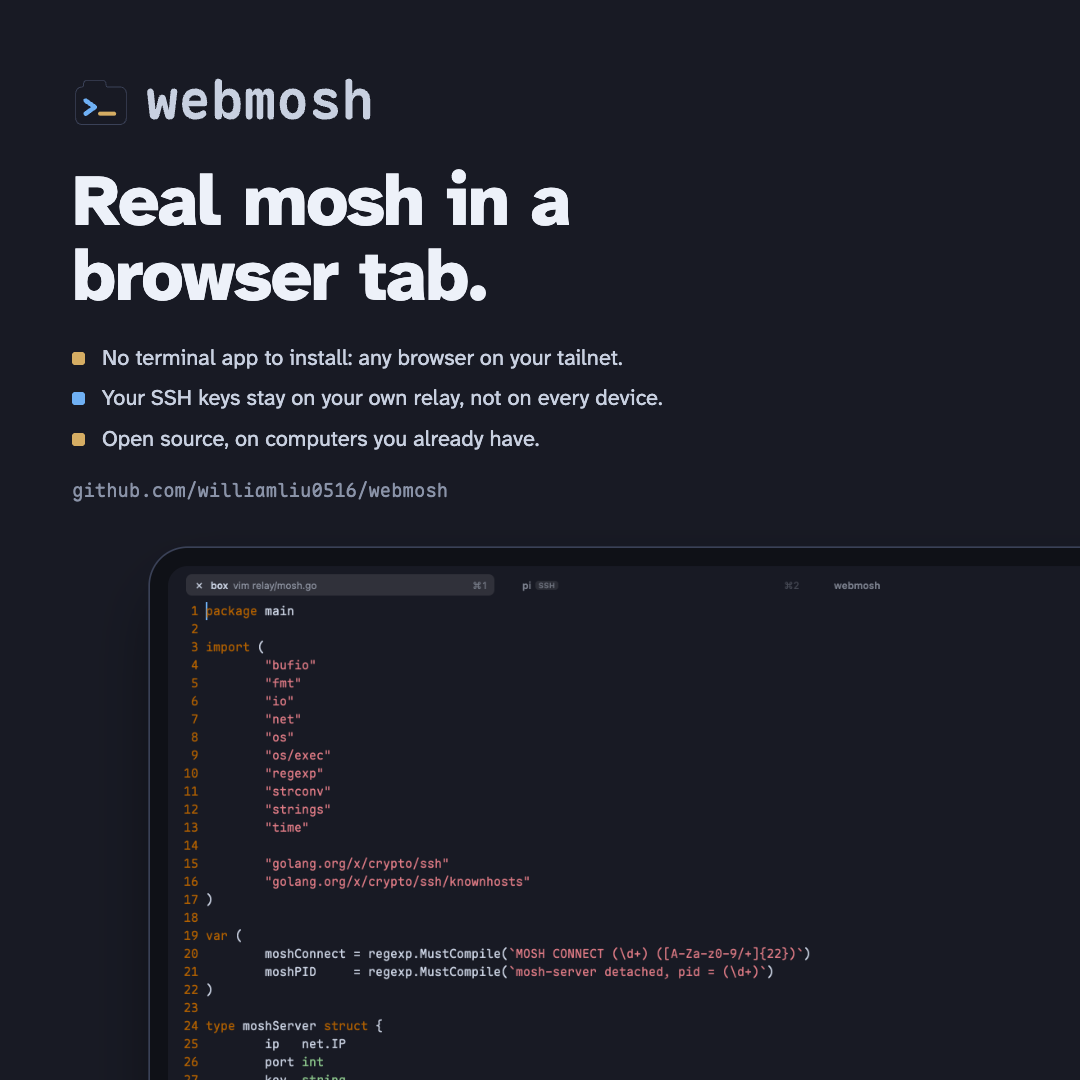
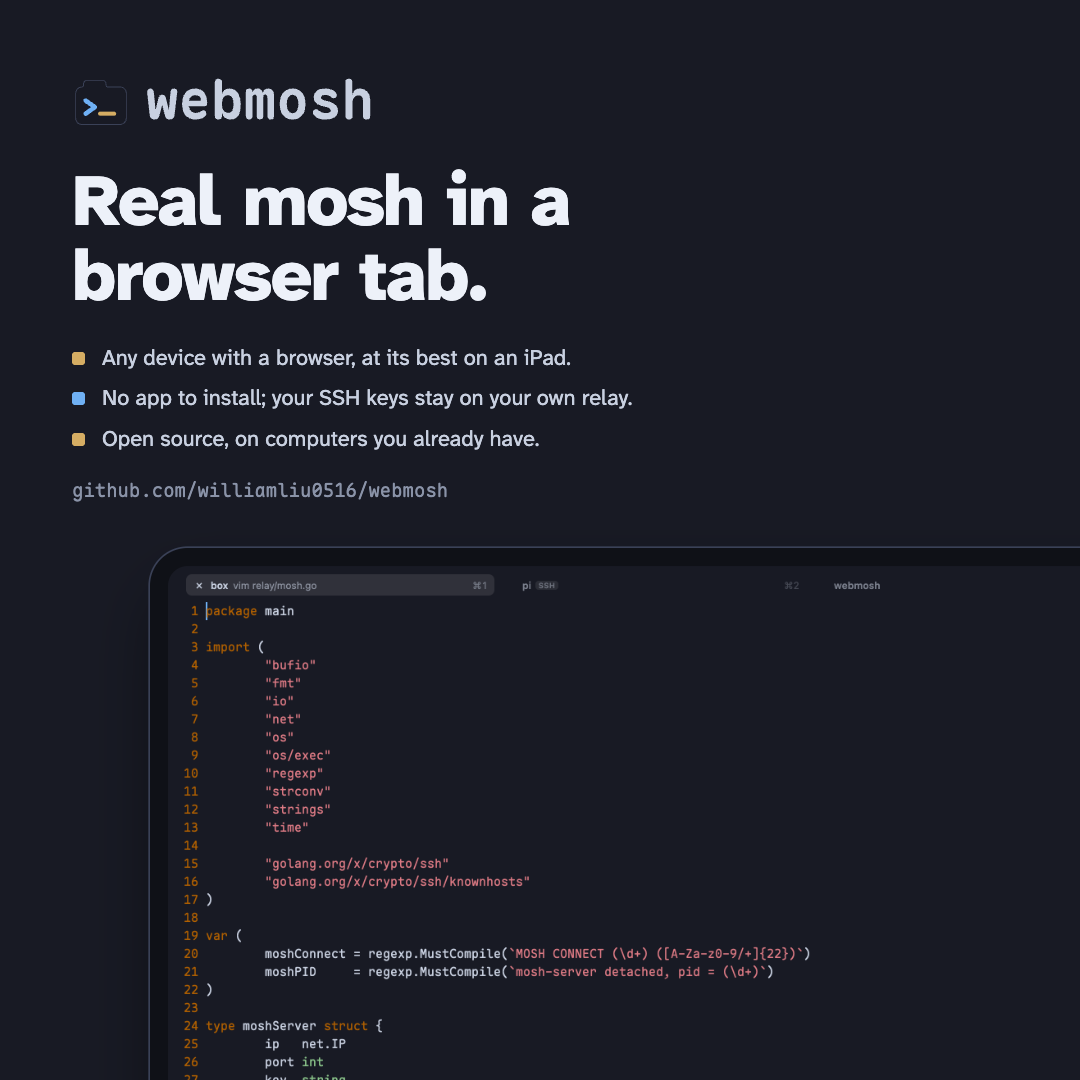
webmosh: phones, other keyboards and any browser; any device, at its best on an iPad

Changed region(s): [[0.0917, 0.3056, 0.6111, 0.3972]]

diff --git a/web/src/index.html b/web/src/index.html
@@ -44,6 +44,29 @@
     color: rgba(255, 255, 255, .7); font: 300 20px/1 -apple-system, system-ui, sans-serif; opacity: .3; transition: opacity .2s; user-select: none; -webkit-user-select: none; }
   html.embedded #newtab { right: calc(50px + env(safe-area-inset-right)); }
   #newtab:hover { opacity: 1; }
+  /* a touch screen (keyrow.mjs): the keys its keyboard lacks under the terminal while the keyboard is on, else a button
+     in the corner (left of the +) to bring the keyboard back */
+  #keys { display: flex; gap: 6px; flex: none; user-select: none; -webkit-user-select: none; touch-action: manipulation;
+    padding: 4px max(10px, env(safe-area-inset-right)) max(6px, env(safe-area-inset-bottom)) max(10px, env(safe-area-inset-left)); }
+  #keys .strip { flex: 1; min-width: 0; display: flex; gap: 5px; overflow-x: auto; scrollbar-width: none; touch-action: pan-x;
+    -webkit-mask-image: linear-gradient(to right, #000 calc(100% - 22px), transparent); mask-image: linear-gradient(to right, #000 calc(100% - 22px), transparent); }
+  #keys .strip::-webkit-scrollbar { display: none; }
+  #keys button { flex: 1 0 auto; min-width: 34px; max-width: 64px; height: 36px; padding: 0 7px; border: 0; border-radius: 7px;
+    background: rgba(255, 255, 255, .09); color: var(--fg); font: 500 14px -apple-system, system-ui, sans-serif;
+    display: grid; place-items: center; -webkit-tap-highlight-color: transparent; }
+  #keys button:active { background: rgba(255, 255, 255, .2); }
+  #keys button.held { background: var(--fg); color: var(--bg); }
+  #keys .away { flex: none; width: 44px; color: rgba(200, 208, 224, .7); }
+  body.has-keys #term { padding-bottom: 4px; }
+  body.kb-up #keys { padding-bottom: 6px; } /* the keyboard is below: no home indicator to clear */
+  body.has-keys #newtab { bottom: calc(56px + env(safe-area-inset-bottom)); }
+  body.has-keys.kb-up #newtab { bottom: 56px; }
+  #kbtoggle { position: fixed; right: calc(50px + env(safe-area-inset-right)); bottom: calc(10px + env(safe-area-inset-bottom)); z-index: 5;
+    width: 32px; height: 32px; padding: 0; border: 0; display: grid; place-items: center; border-radius: 50%;
+    background: rgba(255, 255, 255, .1); color: rgba(255, 255, 255, .8); opacity: .5; -webkit-tap-highlight-color: transparent; }
+  html.embedded #kbtoggle { right: calc(90px + env(safe-area-inset-right)); }
+  body.has-tabs #kbtoggle { right: calc(10px + env(safe-area-inset-right)); }
+  html.embedded body.has-tabs #kbtoggle { right: calc(50px + env(safe-area-inset-right)); }
   [hidden] { display: none !important; }
   .wm-hide-comp .xterm .composition-view { display: none !important; }
 </style>

diff --git a/README.md b/README.md
@@ -6,7 +6,8 @@
 </p>
 
 <p align="center"><b>Real <a href="https://mosh.org">mosh</a> in a browser tab.</b><br>
-No terminal app on your devices. Your SSH keys stay on your own relay.</p>
+On any device with a browser: phone, tablet or computer, and at its best on an iPad.<br>
+No terminal app to install. Your SSH keys stay on your own relay.</p>
 
 <p align="center"><img alt="webmosh on an iPad: three tabs, vim open over mosh in the first" src="docs/images/hero.png" width="88%"></p>
 
@@ -51,10 +52,14 @@ where it was. (<a href="docs/images/demo-5-sleep.mp4">video</a>)
 ## What you get
 
 - **Real mosh:** local echo and prediction, and a session that rides out network changes and sleep.
+- **Any device:** an iPad, a phone, a Mac, Windows, Linux or a Chromebook, in Safari, Chrome or Edge
+  ([which](#devices-and-browsers)).
+- **A keyboard done right on each:** on an iPad Option as Meta, dead keys, Ctrl and Chinese input; on a phone a row
+  of the keys its keyboard lacks; on Windows and Linux shortcuts that leave the system's and the browser's alone.
 - **Tabs that come back** after a reload or a killed app, back in the same tmux sessions.
 - **ssh tabs too,** with images (sixel, iTerm2) and scrollback, held by the relay.
-- **Photos and files** from the iPad to the remote computer, the path pasted at the cursor (Claude Code attaches it).
-- **An iPad keyboard done right:** Option as Meta, dead keys, Ctrl, Chinese input, the keyboard bar out of the way.
+- **Photos and files** from your phone or iPad to the remote computer, the path pasted at the cursor (Claude Code
+  attaches it).
 - **Any Linux or macOS computer** as the relay, and any of them as a host, set up with one line.
 - **Your own look:** fonts, colours, a picture behind the text, all CSS.
 
@@ -72,7 +77,12 @@ where it was. (<a href="docs/images/demo-5-sleep.mp4">video</a>)
 | Up / Down, Tab | history, completion of commands and host names |
 | Cmd = / Cmd - / Cmd 0 | font size, remembered |
 | Cmd Shift I, Cmd V with a picture, a drop | photos and files to the tab's computer, kept in `~/Downloads/webmosh/` there; the path is pasted at the cursor (Claude Code attaches a pasted image path). HEIC becomes JPEG, at most 50 MB a file |
-| Cmd Shift K, Ctrl Space | iPadOS's keyboard bar on / off (off by default); switch input sources with the bar off |
+| Cmd Shift K, Ctrl Space | the on-screen keyboard and iPadOS's keyboard bar away / back (`page.keyboard` below); switch input sources with the bar away |
+| a touch screen | under the terminal, the keys its keyboard lacks: Esc, Ctrl, Alt, Tab, the arrows, `\|` `~` `/` `-`; Ctrl and Alt hold for the next key, typed or tapped; the last key puts the keyboard away, a button in the corner brings it back |
+
+On Windows, Linux, ChromeOS and Android keyboards the page's keys take Alt Shift in place of Cmd and Cmd Shift
+(Alt Shift T, Alt Shift 1), since the system and the browser keep the others; Ctrl Shift C and Ctrl Shift V copy and
+paste, and the font size is the browser's zoom.
 
 Each tab is a prompt or one session. Tabs share one xterm.js: only the tab on screen draws, and switching has that
 tab's mosh client redraw the whole screen from the state it holds, with no round trip.
@@ -92,13 +102,26 @@ so a reload takes them up again as they were.
 
 ## Who it's for
 
-- **You code from an iPad,** with a keyboard, on computers at home or in the cloud.
+- **You code from an iPad** on computers at home or in the cloud: the device webmosh suits best.
+- **You need a terminal on your phone** now and then: a Ctrl-C, a look at a build, a restart, over a shaky connection.
+- **You are on Windows or a Chromebook,** which have no mosh client of their own.
 - **You run a homelab on Tailscale** and want one address for every computer on it.
-- **You use several devices** and want the same terminal on each without setting up each.
+- **You use several devices** and want the same hosts and tmux sessions on each, without setting up each.
 - **You keep long jobs in tmux** (builds, agents, servers) and come back to them from wherever you are.
 - **You build dashboards** and want a terminal inside one.
 
 It is not for shared access (one owner per relay), and it needs a computer that stays on for the relay.
+
+## Devices and browsers
+
+| Device | What you get | Tried on |
+|---|---|---|
+| **iPad** | The best fit. Full screen in Safari or a kiosk app, like an app of its own; a Magic Keyboard with Option as Meta, dead keys and Chinese input; trackpad selection; copy from tmux into the iPad's clipboard; photos and files to the remote. The keyboard bar can go (`page.keyboard`). | real iPads: Safari, kiosk apps, an app embedding the page |
+| **Phone** | The on-screen keyboard, and above it a row of what it lacks: Esc, Ctrl and Alt for the next key, Tab, arrows that repeat, `\|` `~` `/` `-`. The terminal ends above the keyboard. | a real iPhone (Safari); other phones only emulated so far |
+| **Computer** | Mac, Windows, Linux, ChromeOS, in Chrome, Edge, Safari or another Chromium browser. Off Apple keyboards the page's keys are Alt Shift ones, and Ctrl Shift C / V copy and paste. | Chrome on a Mac; a Windows keyboard emulated |
+| **Firefox** | Not yet: it loads the page and runs mosh, but offers WebRTC no address on the Tailscale interface, so it reaches a relay only on a network they share, such as the same LAN, with `ice_nets` open to it. | Firefox on a Mac |
+
+Every device needs Tailscale, signed in to the same tailnet as the relay.
 
 ## How it works
 
@@ -126,7 +149,7 @@ datagrams to a small relay, which forwards them to an unmodified `mosh-server`.
 
    <img alt="On a Mac terminal, curl downloads install-relay.sh and bash runs it: it downloads and checks the relay, writes its config, installs the service and prints the page's address." src="docs/images/install-1-relay.gif" width="100%">
 
-2. **Open its address** on the iPad, in Safari or any browser on your tailnet. (<a href="docs/images/install-2-open.mp4">video</a>)
+2. **Open its address** on your iPad, phone or computer, in any browser but Firefox ([devices](#devices-and-browsers)). (<a href="docs/images/install-2-open.mp4">video</a>)
 
    <img alt="On an iPad, Safari opens the address; the webmosh prompt appears and hosts lists the Mac." src="docs/images/install-2-open.gif" width="100%">
 
@@ -260,7 +283,7 @@ Read this before running it. The relay is a remote shell service.
 | `default_target` | |
 | `frame_ancestors` | origins that may embed the page in an iframe and use the hosts API |
 | `lang` | `en` (default) or `zh`: the page's and the relay's own messages |
-| `page` | the look, served to the page as `/site.json`: `theme` (an xterm.js theme laid over the default, Tomorrow Night) and `terminal` (xterm.js options such as `lineHeight`, `cursorStyle`) |
+| `page` | served to the page as `/site.json`: `theme` (an xterm.js theme laid over the default, Tomorrow Night), `terminal` (xterm.js options such as `lineHeight`, `cursorStyle`) and `keyboard` (`"off"`: no on-screen keyboard or iPadOS keyboard bar until switched on, for tablets with a keyboard; phones keep theirs; each device remembers its own switch) |
 | `static_dir` | files served in place of the built-in ones (below) |
 | `ssh_from`, `hosts_scan`, `tailscale_status` | tailnet hosts: extra addresses for the key's `from=`, how often to read tailscale status (default `1m`), a status file instead (tests) |
 | `ntfy_server`, `ntfy_topic`, `hosts_page` | announce new tailnet computers on ntfy, with a link to your hosts page |
@@ -288,13 +311,14 @@ Blink Shell and Termius are good apps, and both speak mosh. webmosh is for when 
 - **No terminal app on your devices.** Any browser on your tailnet is the client, and an update happens once, on the
   relay. Each device still needs Tailscale.
 - **No SSH keys on your devices.** You get in by your Tailscale identity; only the relay holds a key to your computers,
-  limited to what `webmosh-gate` allows. A lost iPad is a device to remove from the tailnet.
+  limited to what `webmosh-gate` allows. A lost phone or iPad is a device to remove from the tailnet.
 - **Yours, and open.** No account, no subscription, no vendor's cloud: one Go binary on a computer you already have.
 
 | | Runs in | mosh | Where your SSH keys live | |
 |---|---|---|---|---|
 | webmosh | a browser on your tailnet | yes: mosh-client in WebAssembly | on your relay only | free, GPL |
 | Blink Shell | an iPhone and iPad app | yes | on each device | App Store app, GPL source |
+| mosh's own client | macOS, Linux; Windows only through WSL | yes | on each device | free, GPL |
 | Termius | iOS, Android and desktop apps | yes | on each device, or Termius's encrypted vault | free tier and subscription |
 | Chrome's Secure Shell | a Chrome extension | alpha, through Chrome's own sockets: no Safari, no iPad | on each device | free, open source |
 | ttyd, wetty, sshx | any browser | no: WebSocket, no prediction, a network change drops it | on the server | free, open source |
